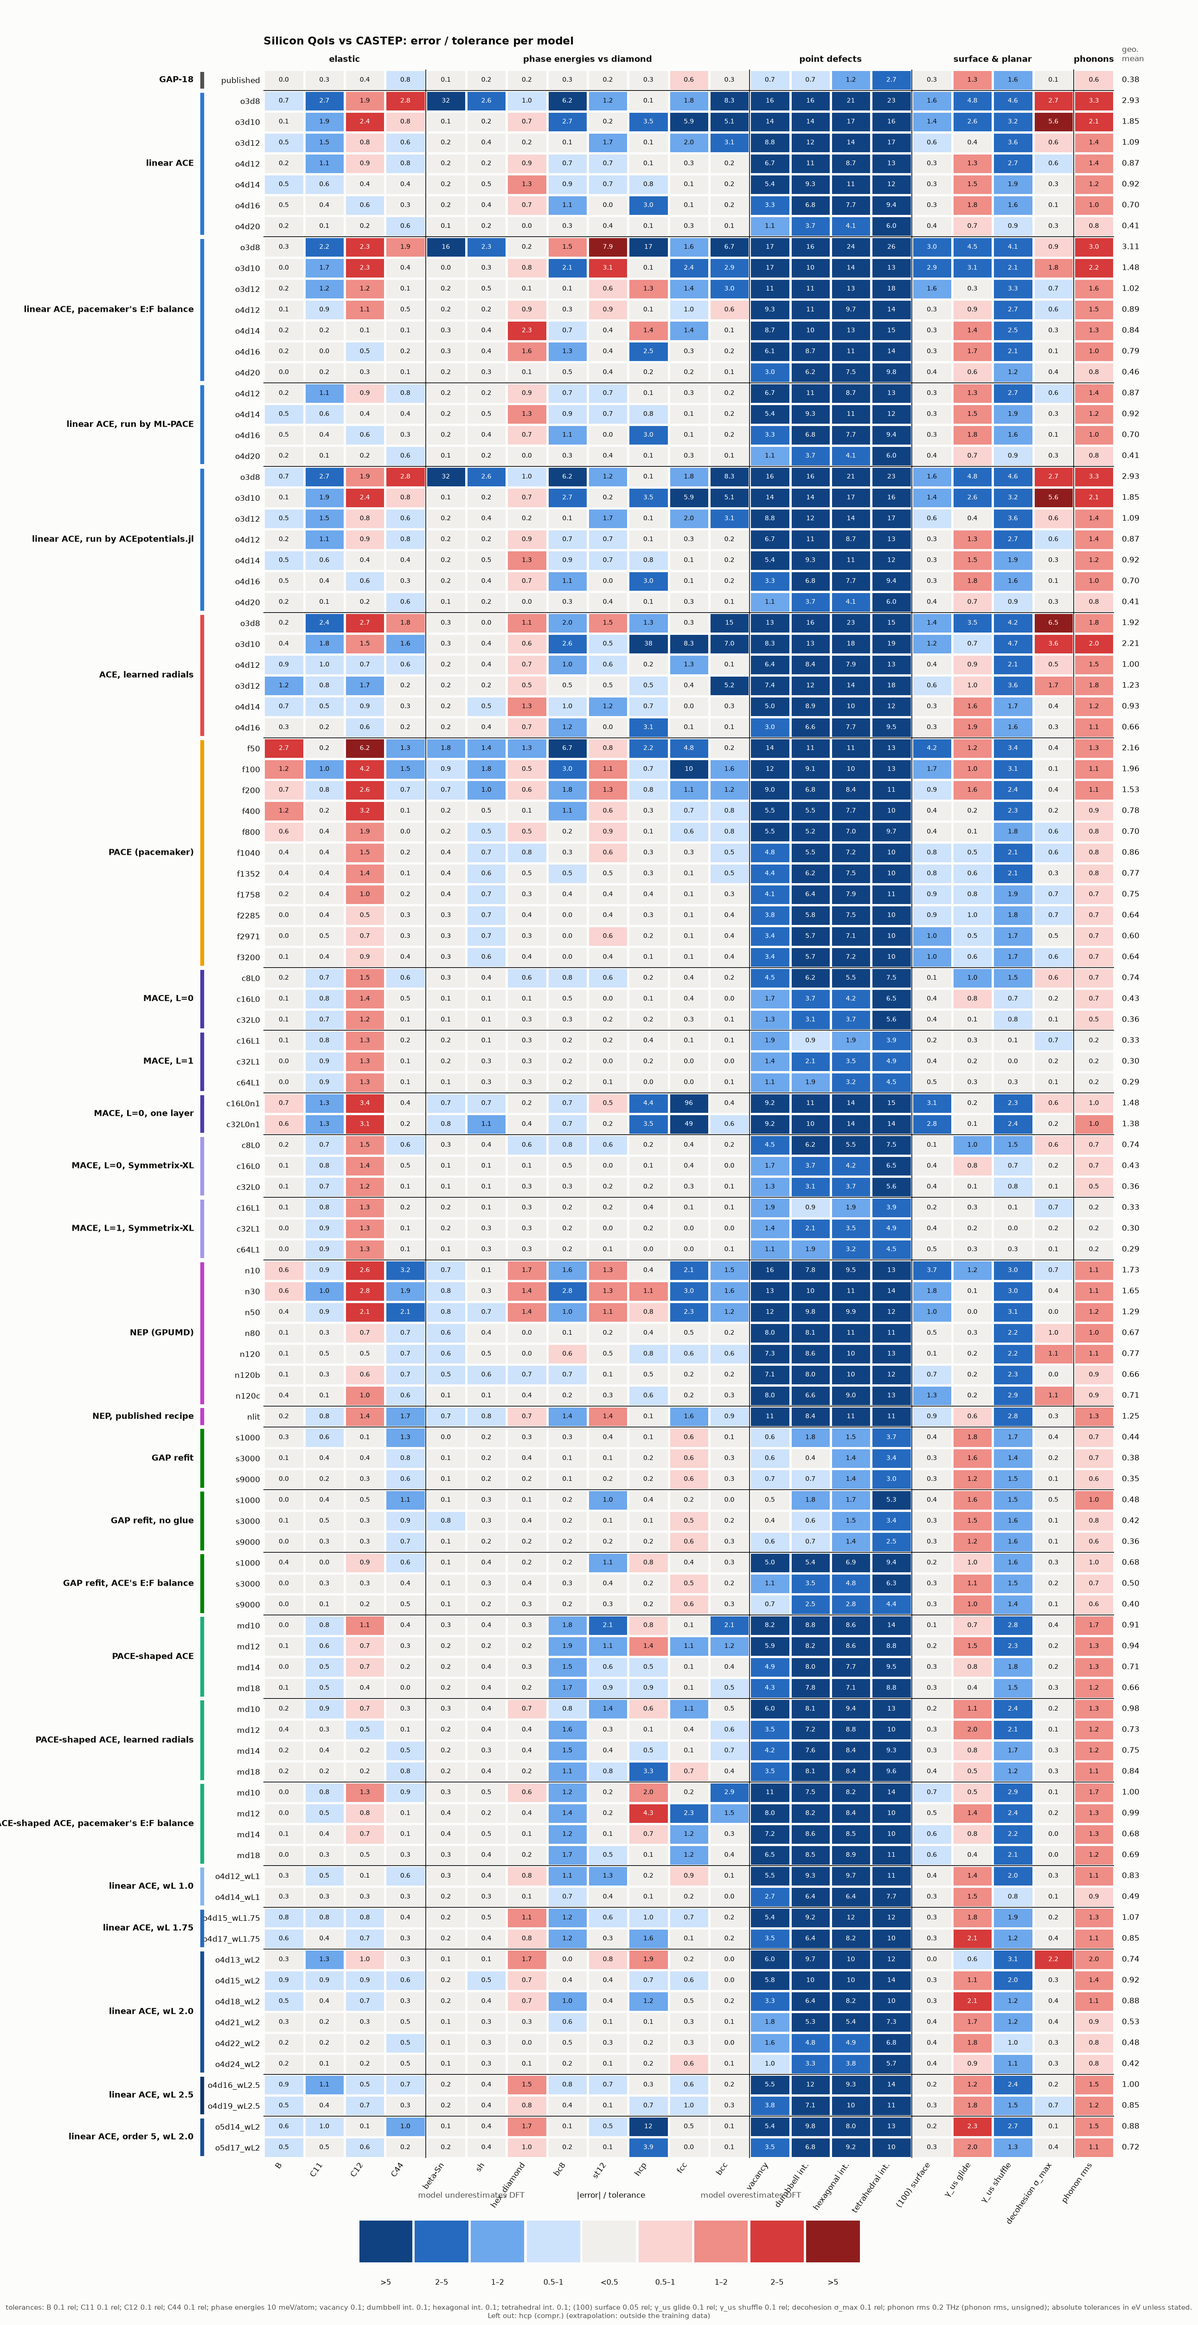
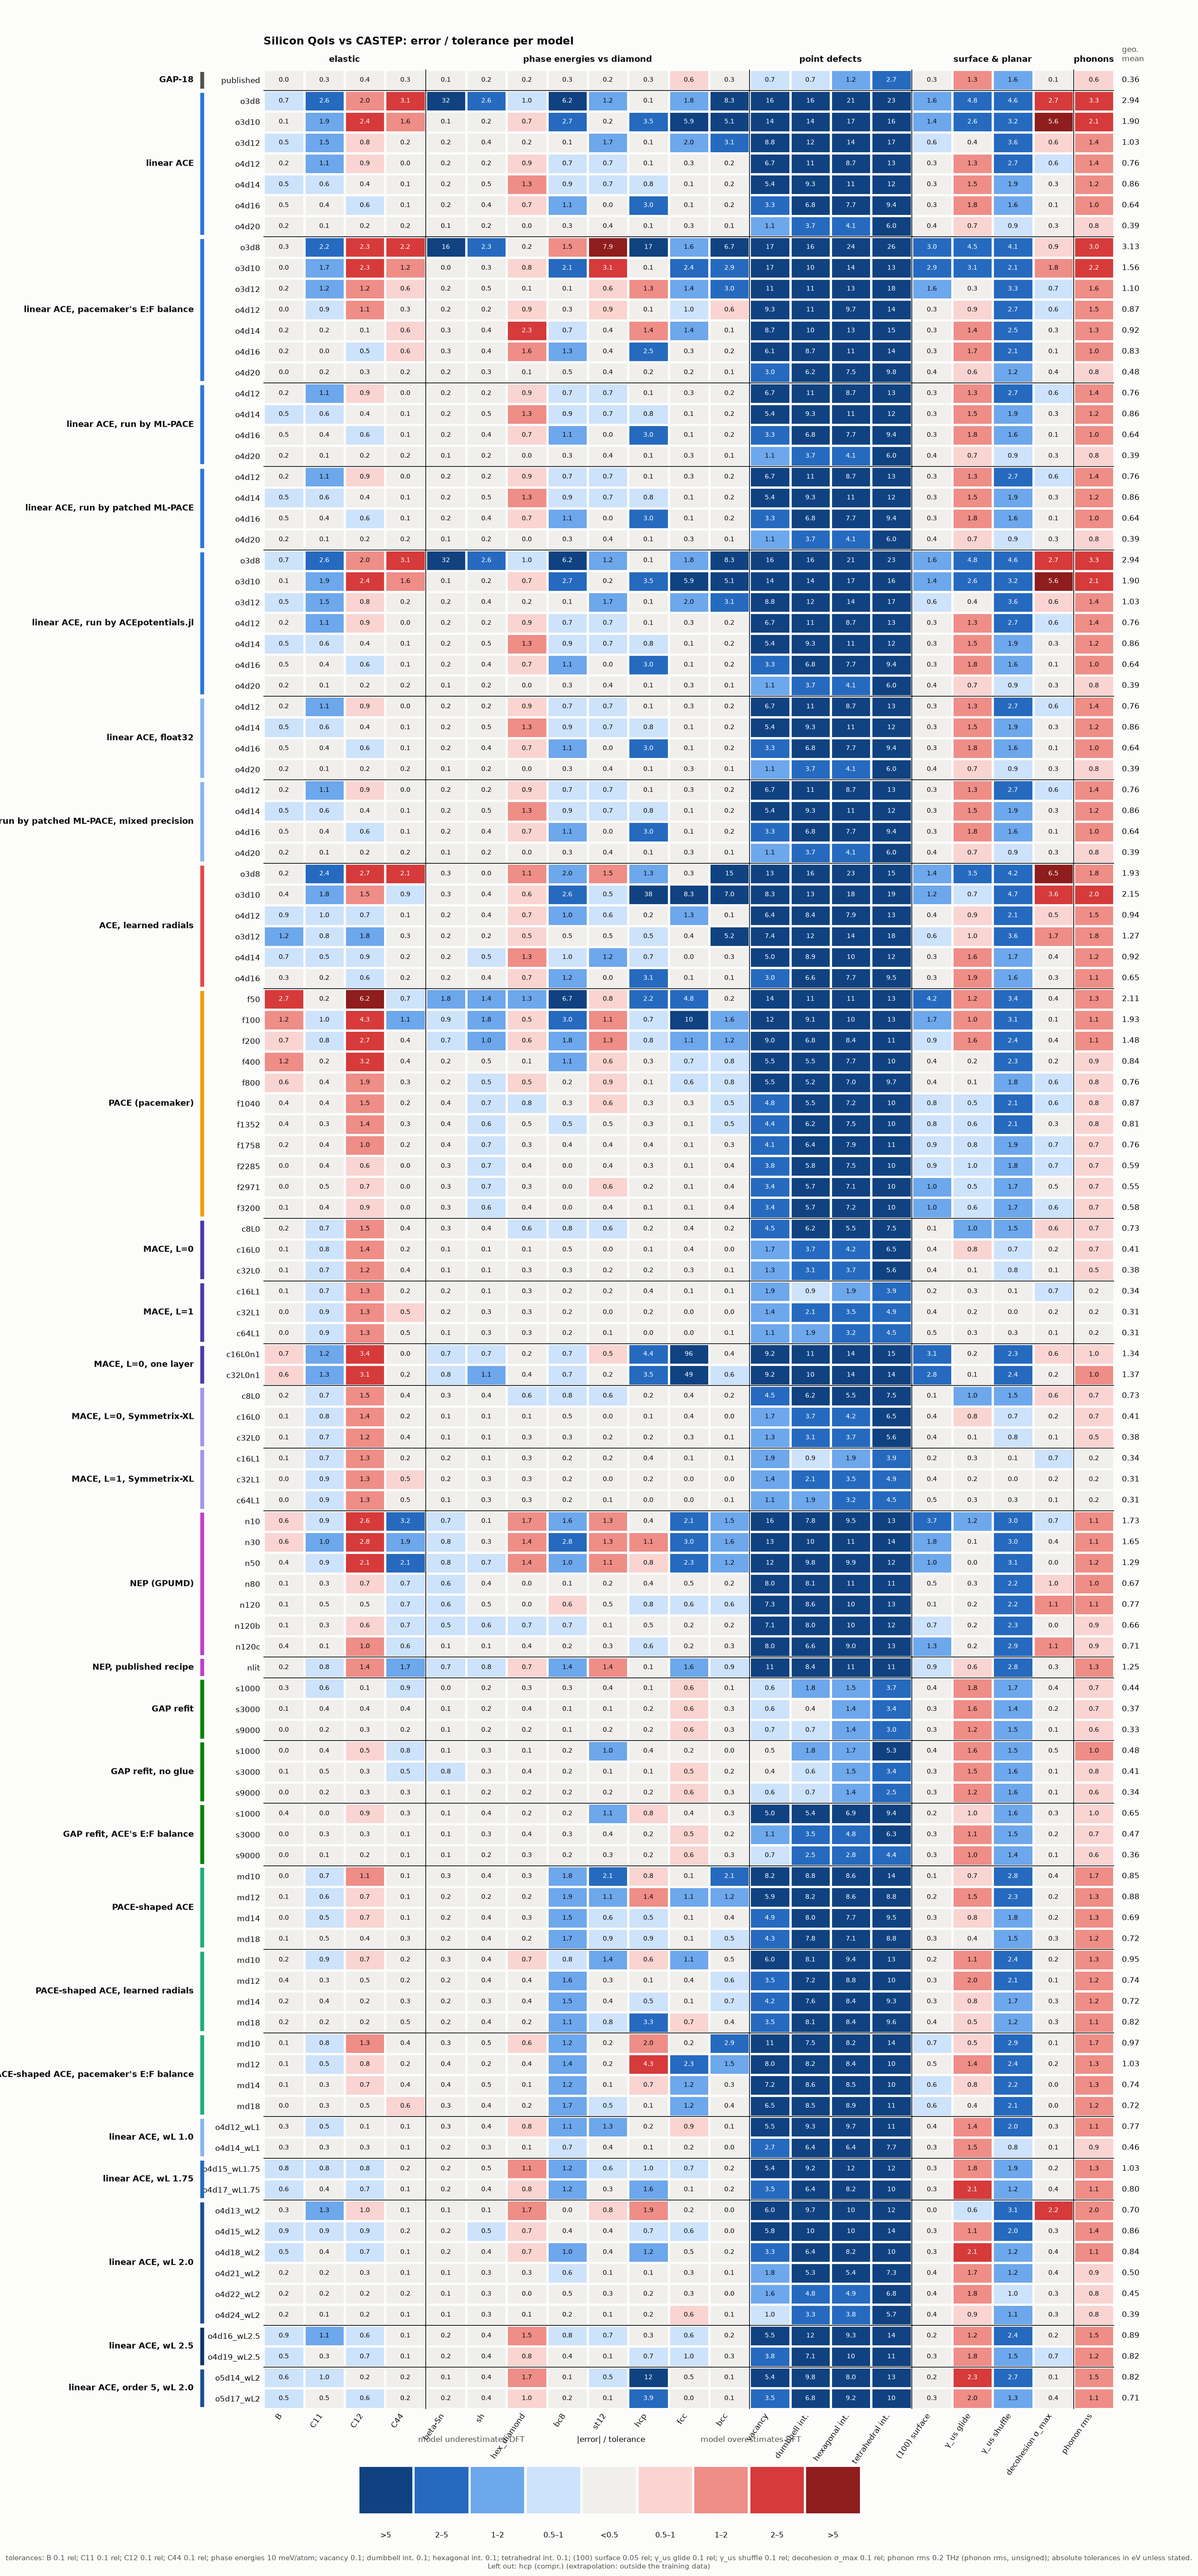
float32 on GPUs: inference fixes, float32 design rows for fitting, and when float32 is safe (#105)
* docs(fp32): plan for fp32 GPUs: inference, mixed-precision fit, step-1 measurements

* docs(fp32): plan step 1.6, KOKKOS ML-PACE in mixed precision as the GPU baseline

* bench(fp32): step-1 measurements: fp32 rows, conditioning, LML, cancellation, fp32 inference

fp32 rows move predictions by 1-20% of the posterior std and noise hypers by <1%;
fp32 Householder QR (y as a column) matches fp64 for mean and LML; fp32 normal
equations and TF32 rows fail. fp32 inference: forces 1e-4-1e-3 relative,
energies 0.1-0.6 meV/atom, 2.1-2.4x faster on the A4500. ML-PACE pending.

* bench(fp32): lint

* bench(fp32): step 1.6, KOKKOS ML-PACE double/mixed/single vs ace-jax fp32/fp64; merge thread sweep

ML-PACE gains 2.7-3.2x from KOKKOS_PREC=mixed/single on the A4500, at the same
near-equilibrium accuracy as ace-jax fp32; on a strongly distorted cell ace-jax
fp32 is 5-25x more accurate. The SBessel-refit ace_yace/o4d16 is unusable in
fp32 in both codes (|crad| up to 3.7e8).

* fix(export): float32 bundles and calculators evaluate in float32 under x64

Under x64 (which `aj export` always enables) export_lammps(dtype="float32") traced the
float64 model with float32 positions, so the bundle lowered to a float64 program
(~400 f64 ops) with only its I/O in float32: no float32 speed, float32-rounded
inputs. ACECalculator(model, meta, dtype=float32) with a pre-loaded model did the same.

- eval.with_dtype: cast a model's floating leaves.
[…]

diff --git a/bench/si_qoi/plot_cost.py b/bench/si_qoi/plot_cost.py
@@ -39,6 +39,11 @@ FAM = {  # family: (label, colour, marker, linestyle, filled, qoi model name pat
     "ace_tabfork": ("linear ACE, run by patched ML-PACE", "#2a78d6", "*", "--", False, "ACE_{s}"),
     # and by ACEpotentials.jl's LAMMPS export (bench/accuracy_cost/build_trim.py: the juliac --trim library, exact)
     "ace_trim":   ("linear ACE, run by ACEpotentials.jl", "#2a78d6", "X", "-.", True, "ACE_{s}"),
+    # the order-4 ladder in reduced precision (docs/dev/fp32-results.md): the same fits, their own cost --
+    # ace-jax float32 bundles, and patched pace/kk (PACE_KK_RHOW=3) in a KOKKOS_PREC=mixed LAMMPS.  Each pairs with its float64 line:
+    # its marker and line style in a lighter blue (the wL ramp's light step; the wL ladder is not in this figure)
+    "ace_f32":       ("linear ACE, float32",                         "#86b6ef", "o", "-", True, "ACE_{s}"),
+    "ace_tab_mixed": ("linear ACE, run by patched ML-PACE, mixed precision", "#86b6ef", "*", "--", False, "ACE_{s}"),
     "ace_lr":     ("ACE, learned radials",     "#e34948", "s", "-",  True,  "ACElr_{s}"),
     "pace":       ("PACE (pacemaker)",         "#eda100", "^", "-",  True,  "PACE_{s}"),
     # MACE is two ladders: L=1 (equivariant messages) costs ~3x an L=0 model of similar size, so one
@@ -83,6 +88,10 @@ def family_of(r):
         return ("mace_xl_" if r.get("code", "").startswith("mace-xl") else "mace_") + size[-2:]
     if fam == "ace" and r.get("code") == "acepotentials-trim":
         return "ace_trim"
+    if fam == "ace" and r.get("code") == "acejax-ace" and r.get("dtype") == "float32":
+        return "ace_f32"
+    if fam == "ace_tab" and r.get("code") == "mlpace-mixed":
+        return "ace_tab_mixed"
     if fam == "nep" and size.startswith("nlit"):
         return "nep_lit"
     if fam == "ace_tab" and any(t in r.get("_file", "") for t in PATCHED_MLPACE):   # make_cost's per-row file stem
@@ -95,7 +104,8 @@ INK, MUTED, GRID = "#0b0b0b", "#52514e", "#e6e5e1"
 COST_AS = {"ace_E10": "ace"}
 # a second code for the same fits: its cost under its own name (make_cost.py writes it there)
 COST_NAME = {"mace_xl_L0": "MACExl_{s}", "mace_xl_L1": "MACExl_{s}", "ace_tab": "ACEtab_{s}", "ace_trim": "ACEtrim_{s}",
-             "ace_tabfork": "ACEtabfork_{s}"}
+             "ace_tabfork": "ACEtabfork_{s}", "ace_f32": "ACEf32_{s}", "ace_tab_mixed": "ACEtabmixed_{s}"}
+REDUCED = ("ace_f32", "ace_tab_mixed")              # reduced-precision lines: make_cost --dtype keeps them
 # timing files of ML-PACE with the proposed additions (sulis-{cpu,gpu}-pacefork.sbatch): their
 # mlpace rows are the ace_tabfork line, not stock ML-PACE's
 PATCHED_MLPACE = ("ace_tabfork",)
@@ -138,6 +148,7 @@ def load_rows():
     # and linear ACE run by ML-PACE or ACEpotentials.jl is the ace fits again
     return (rows + [r | {"family": "mace_xl_" + r["family"][-2:]} for r in rows if r["family"] in ("mace_L0", "mace_L1")]
             + [r | {"family": "ace_tab"} for r in rows if r["family"] == "ace" and r["size"] in TAB_SIZES]
+            + [r | {"family": f} for r in rows if r["family"] == "ace" and r["size"] in TAB_SIZES for f in REDUCED]
             + [r | {"family": "ace_tabfork"} for r in rows if r["family"] == "ace" and r["size"] in TAB_SIZES]
             + [r | {"family": "ace_trim"} for r in rows if r["family"] == "ace"])
 
@@ -257,6 +268,8 @@ def draw_row(axes, data, ref, xlabel, codes, letters, what):
     allx = [q["x"] for pts in data.values() for q in pts if q["x"]]
     names, vals, cols, notes = [], [], [], []
     for fam, pts in data.items():
+        if fam in REDUCED and all(q["x"] is None for q in pts):
+            continue                                  # a reduced-precision line is a cost row only: no bar until timed
         ok = [q for q in pts if q["x"] is not None and q["qoi"] is not None and q["rmse_F"] <= ref["rmse_F"]
               and q["qoi"] <= TARGET_QOI]
         names.append(FAM[fam][0]); cols.append(FAM[fam][1])
@@ -350,7 +363,9 @@ def main():
         note = (cpu_note + "QoI error clips each QoI to [0.05, 10] x tolerance; compressed hcp is left out (extrapolation, "
                 "outside the training data); only models with every QoI computed.\n"
                 "Cost: the fastest parity-checked code per model, float64 only except NEP on the GPU (one-layer MACE and, on the GPU, Symmetrix MACE c64L1 have "
-                "float32 timings only and are left out of the cost rows). Single fits per point.")
+                "float32 timings only and are left out of the cost rows). Single fits per point.\n"
+                "Light blue: the same o4 linear ACE fits in reduced precision -- ace-jax float32 lammps-jax bundles (where timed), and "
+                "patched ML-PACE pace/kk in a KOKKOS_PREC=mixed LAMMPS (accuracy is the float64 fit's).")
         fig.text(0.5, 0.003, note, ha="center", fontsize=8.5, color=MUTED)
         # the axes start above the note: its lines (8.5 pt, 1.2 spacing) plus room for the bottom row's axis label
         bottom = ((note.count("\n") + 1) * 8.5 * 1.2 / 72 + 0.2) / fig.get_figheight()

diff --git a/bench/si_qoi/make_cost.py b/bench/si_qoi/make_cost.py
@@ -11,12 +11,16 @@ at 1e-10, as learned radials are by default); each row's gate is looked up in it
 import argparse, json, pathlib, sys
 
 sys.path.insert(0, str(pathlib.Path(__file__).parent))
-from plot_cost import FAM, ROOT, cost_name, family_of  # noqa: E402
+from plot_cost import FAM, REDUCED, ROOT, cost_name, family_of  # noqa: E402
 
 
 def main():
     ap = argparse.ArgumentParser(); ap.add_argument("timings", nargs="+")
-    ap.add_argument("--dtype", help="only rows at this precision (float64: like-for-like, e.g. MACE without float32)")
+    ap.add_argument("--dtype", help="only rows at this precision (float64: like-for-like, e.g. MACE without float32); "
+                                    "the reduced-precision lines (plot_cost.REDUCED) are kept, under their own names")
+    ap.add_argument("--prefer", action="append", default=[],
+                    help="a timings file whose rows supersede every other file's for the models it times "
+                         "(e.g. a re-timed ladder); repeatable")
     ap.add_argument("--allow", action="append", default=[], metavar="CODE:DTYPE",
                     help="also keep this code at this precision past --dtype (nep-gpumd:mixed: GPUMD's NEP is mixed "
                          "precision only; plot_cost marks it)")
@@ -35,14 +39,21 @@ def main():
     # models a --source file covers: their rows of that code come from it alone (others, e.g. the wL ladder, as before)
     sourced = {(r["code"], r["family"], r["size"]) for r in rows if source.get(r["code"]) == r["_file"]}
     best, code = {}, {}
+    prefer = [str(pathlib.Path(p)) for p in a.prefer]
+    preferred = {}                       # cost name -> the --prefer file that times it
+    for r in rows:
+        if str(pathlib.Path(r["_path"])) in prefer and r.get("mode") != "parity" and family_of(r) in FAM:
+            preferred.setdefault(cost_name(family_of(r), r["size"]), r["_path"])
     for r in rows:
         fam = family_of(r)                                       # plot_cost's split families (MACE by L, wL)
         if r.get("mode") == "parity" or r.get("status") != "ok" or fam not in FAM or (
-                a.dtype and r["dtype"] != a.dtype and (r["code"], r["dtype"]) not in allow):
+                a.dtype and r["dtype"] != a.dtype and fam not in REDUCED and (r["code"], r["dtype"]) not in allow):
+            continue
+        if preferred.get(cost_name(fam, r["size"]), r["_path"]) != r["_path"]:   # superseded by a --prefer file
             continue
         if r.get("mode") in ("lammps", "gpumd") and (r["_path"], r["code"], r["family"], r["size"]) not in gates:   # standalone: no gate
             continue
-        if (r["code"], r["family"], r["size"]) in sourced and r["_file"] != source[r["code"]]:
+        if (r["code"], r["family"], r["size"]) in sourced and r["_file"] != source[r["code"]] and fam not in REDUCED:
             continue
         name = cost_name(fam, r["size"])                      # Symmetrix-XL under its own name (MACExl_)
         us = 1e6 / r["atom_steps_per_s"]
